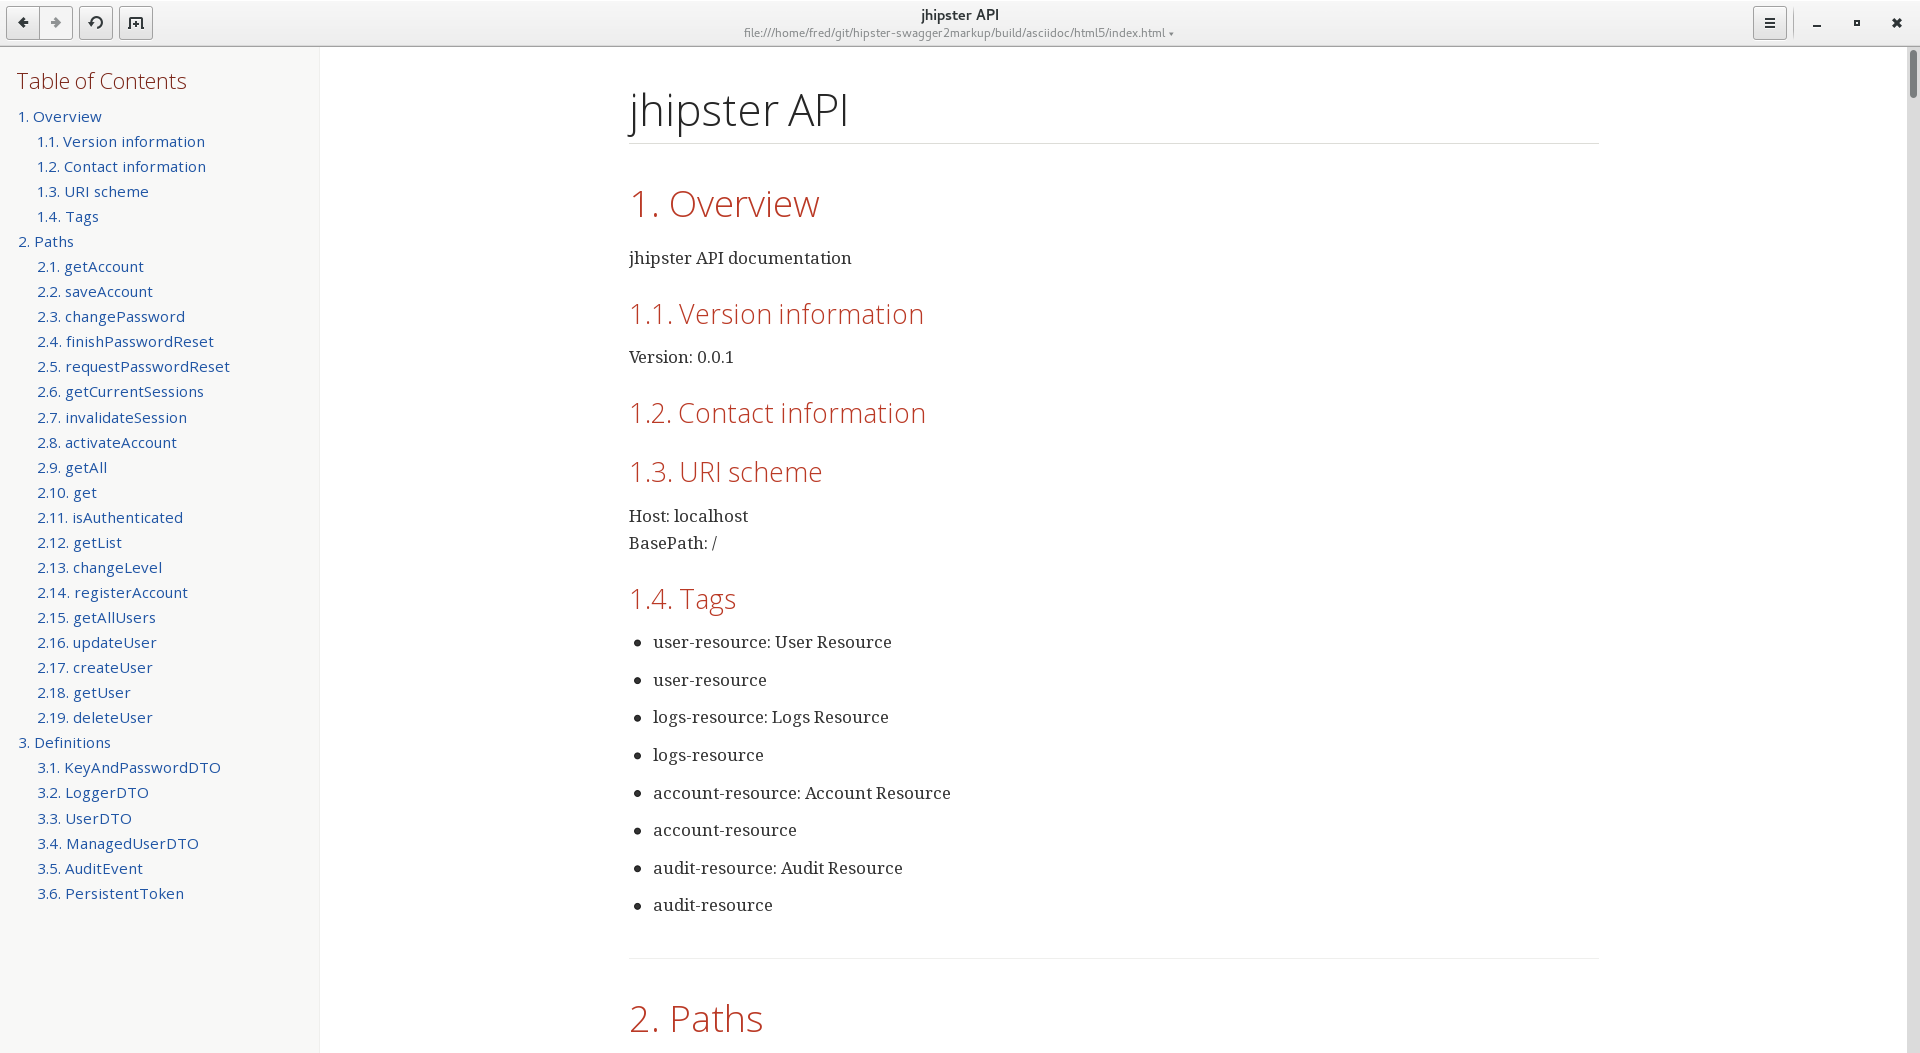
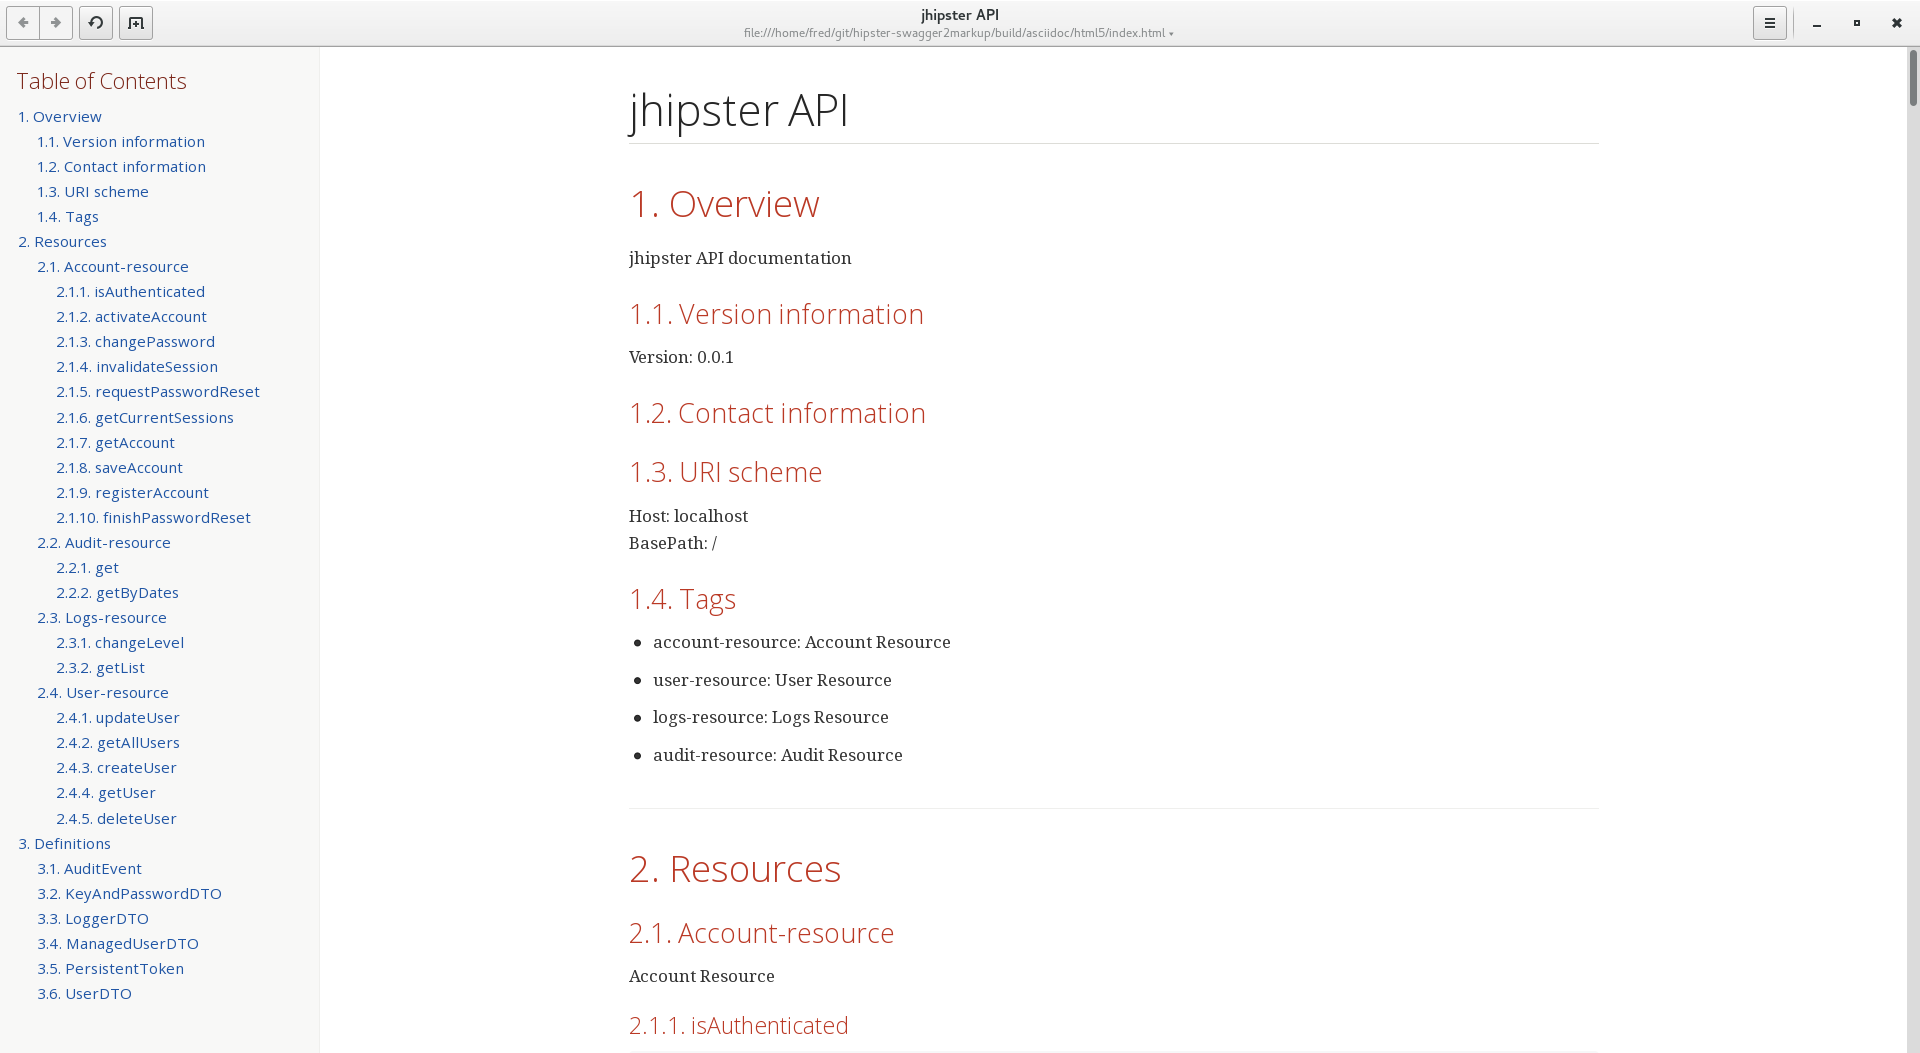
group paths by tags
close #1

diff --git a/generators/app/index.js b/generators/app/index.js
@@ -80,7 +80,7 @@ module.exports = yeoman.generators.Base.extend({
     this.apiDocResultType = this.props.apiDocResultType;
 
     this.template('src/docs/asciidoc/_index.adoc', 'src/docs/asciidoc/index.adoc');
-    this.template('src/test/java/package/web/rest/_Swagger2MarkupTest.java', javaTestDir + 'web/rest/Swagger2MarkupTest.java');
+    this.template('src/test/java/package/web/rest/_Swagger2MarkupIntTest.java', javaTestDir + 'web/rest/Swagger2MarkupIntTest.java');
 
     this.template('_swagger2markup.gradle', 'swagger2markup.gradle');
 
@@ -90,6 +90,7 @@ module.exports = yeoman.generators.Base.extend({
     jhipsterFunc.addGradleDependency('testCompile', 'io.springfox', 'springfox-staticdocs', '2.0.3');
     jhipsterFunc.addGradlePlugin('org.asciidoctor', 'asciidoctor-gradle-plugin', '1.5.3');
     jhipsterFunc.addGradlePlugin('org.asciidoctor', 'asciidoctorj-pdf', '1.5.0-alpha.10.1');
+    jhipsterFunc.addGradlePlugin('io.github.robwin', 'swagger2markup-gradle-plugin', '0.9.1')
 
     done();
   },

diff --git a/generators/app/templates/src/test/java/package/web/rest/_Swagger2MarkupIntTest.java b/generators/app/templates/src/test/java/package/web/rest/_Swagger2MarkupIntTest.java
@@ -26,21 +26,18 @@ import static org.springframework.test.web.servlet.result.MockMvcResultMatchers.
 @SpringApplicationConfiguration(classes = Application.class)
 @WebAppConfiguration
 @IntegrationTest
-public class Swagger2MarkupTest {
+public class Swagger2MarkupIntTest {
 
     @Inject
     private WebApplicationContext context;
 
     private MockMvc mockMvc;
 
-    private File projectDir;
-
     @Before
     public void setup() throws IOException {
         this.mockMvc = MockMvcBuilders.webAppContextSetup(this.context).build();
 
         ClassPathResource pathfileRes = new ClassPathResource("config/application-dev.yml");
-        projectDir = pathfileRes.getFile().getParentFile().getParentFile().getParentFile().getParentFile();
     }
 
 
@@ -48,12 +45,7 @@ public class Swagger2MarkupTest {
     public void convertSwaggerToAsciiDoc() throws Exception {
         this.mockMvc.perform(get("/v2/api-docs")
             .accept(MediaType.APPLICATION_JSON))
-            .andDo(Swagger2MarkupResultHandler
-                .outputDirectory("src/docs/asciidoc/generated").build())
+            .andDo(SwaggerResultHandler.outputDirectory("build/swagger").build())
             .andExpect(status().isOk());
-    }
-
-    private String outputDirForFormat(String format) throws IOException {
-        return new File(projectDir, "docs/" + format + "/generated").getAbsolutePath();
     }
 }
